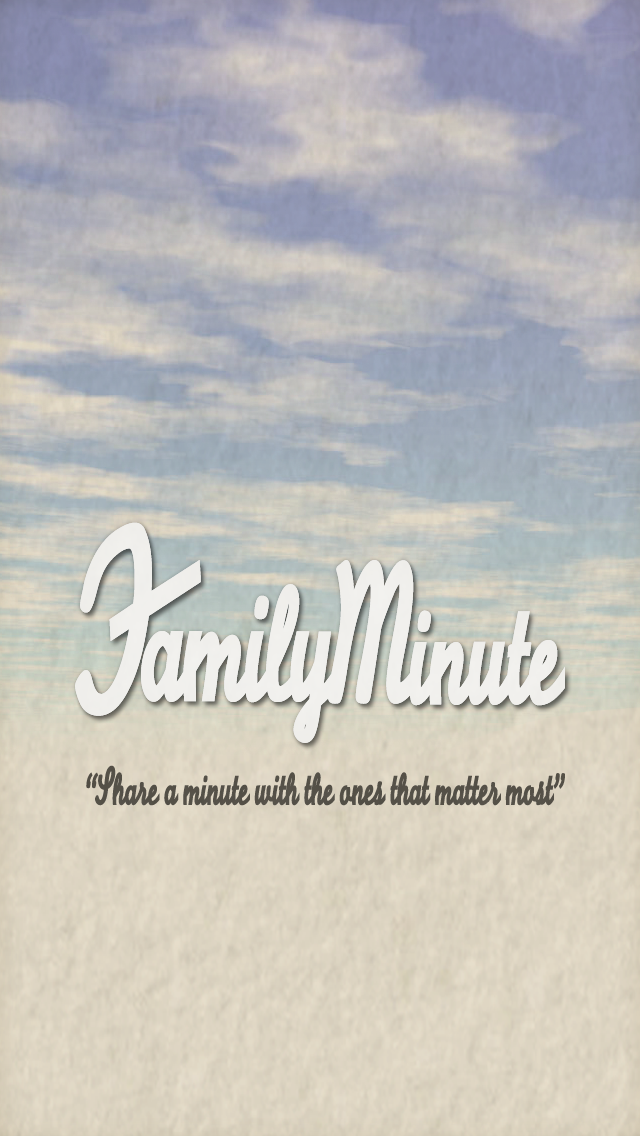
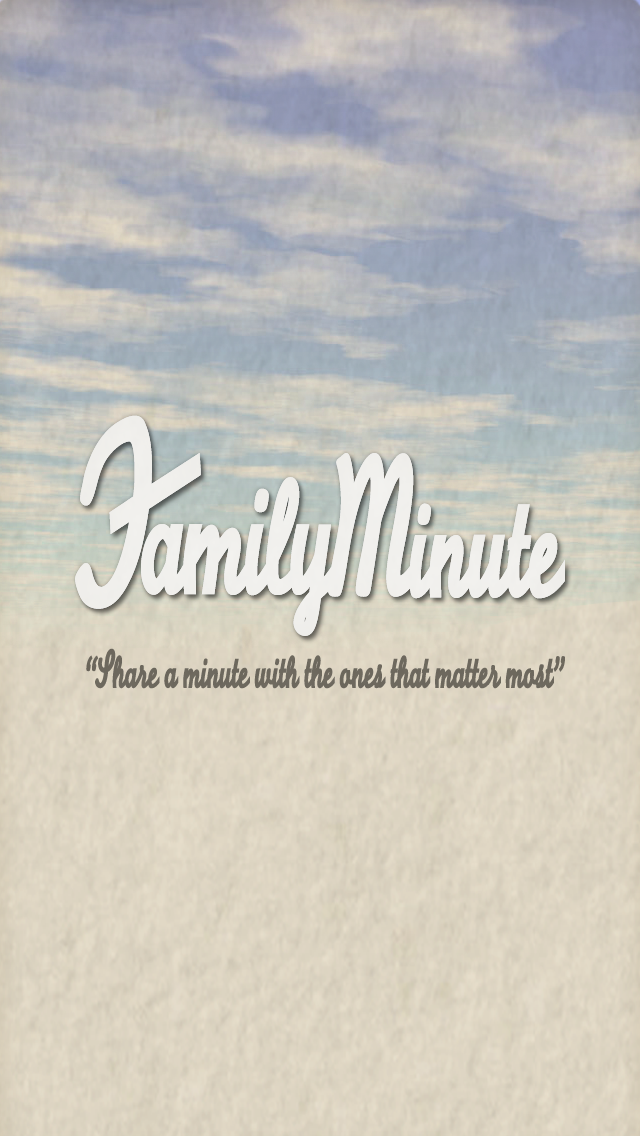
pictures added, lots of changes about the html and css and js in sign in page

diff --git a/sign-in.html b/sign-in.html
@@ -21,31 +21,37 @@
 <div class="container" data-role="page" id="signIn">
 	<div class="top"></div>
 	<div class="bottom">
-		<div>
-			<div class="photo">photo</div>
-			<div class="slogan">Share a minute with the ones that matter most!</div>
-		</div>
-		<div class="navigationButtons">
-			<div class="action navigation-button">
-				<a href="#" rel="external" id="signIn">sign in</a>
-			</div>
-			<div class="action navigation-button">
-				<a href="sign-up.html" rel="external" id="signUp">sign up</a>
-			</div>
-			<div id="initial">
-				<div class="action navigation-button">
-					facebook
+		<fieldset class="navigationButtons ui-grid-b">
+			<div class="ui-block-a" style="width: 23%"></div>
+			<div class="ui-block-b" style="width: 54%">
+				<div class="navigation-button">
+					<a href="#" rel="external" id="signIn">
+						<img src="img/login.png">
+					</a>
 				</div>
-				<div class="action navigation-button">
-					google
+				<div class="navigation-button">
+					<a href="sign-up.html" rel="external" id="signUp">
+						<img src="img/signup.png">
+					</a>
 				</div>
+				<div id="initial">
+					<div class="navigation-button">
+						<img src="img/facebook.png">
+					</div>
+					<div class="navigation-button">
+						<img src="img/google.png">
+					</div>
+				</div>
+				<form id="loginCredentials">
+					<input type="text" name="username" id="username" placeholder="Username">
+					<input type="password" name="password" id="password" placeholder="Password">
+					<input type="submit" id="submit" class="ui-btn ui-corner-all" data-role="button" value="Sign in" />
+				</form>
 			</div>
-			<form id="loginCredentials">
-				<input type="text" name="username" id="username" placeholder="Username">
-				<input type="password" name="password" id="password" placeholder="Password">
-				<input type="submit" id="submit" class="ui-btn ui-corner-all" data-role="button" value="Sign in" />
-			</form>
-		</div>
+			<div class="ui-block-c" style="width: 23%"></div>
+			
+			
+		</fieldset>
 	
 </div>
 </body>

diff --git a/js/sign-in.js b/js/sign-in.js
@@ -1,6 +1,14 @@
 $(document).on('pagebeforeshow', '#signIn', function(){
 	
-	$('#navigationButtons .sign-in').on('click',function(){
+	$('#signIn').css('background-image', 'url(img/background.png)');
+	var height = screen.height;
+	var width = screen.width;
+	$('#signIn').css('background-size', width+'px '+height+'px');
+	$('#signIn').css('no-repeat');
+	
+
+	$('#signIn').on('click',function(){
+
 		$(".top").animate({'height':'40%'},500);
 		$(".photo").animate({'top':'25%'},500);
 		$(".slogan").animate({'top':'50%'},500);
@@ -33,7 +41,8 @@ $(document).on('pagebeforeshow', '#signIn', function(){
 		else {
 			console.log('go to page home');
 			//go to home page
-			$.mobile.changePage("home.html");
+			// $.mobile.changePage("home.html");
+			window.location.href = "home.html";
 		}
 
 	});

diff --git a/css/sign-in.css b/css/sign-in.css
@@ -4,7 +4,7 @@
 	width: 100%;
 	position: absolute;
 	background-image: url('../img/background.png');
-	background-size: 
+	background-repeat: no-repeat;
 }
 
 .top{
@@ -19,34 +19,15 @@
 	width: 100%;
 }
 
-.photo{
-	top: 35%;
-	width: 154px;
-	height: 154px;
-	margin-left: 25%;
-	position: absolute;
-	background-color: #CC0066;
-}
-
-.slogan{
-	top: 60%;
-	width: 50%;
-	margin-left: 25%;
-	position: absolute;
-	font-size: 15px;
-	text-align: center;
-}
-
 .navigationButtons {
-	width: 70%;
+	width: 100%;
 	position: absolute;
 	bottom: 5%;
 }
 .navigation-button{
-	background-color: #FFFFFF;
-	height: 74px;
-	width: 74px;
-	margin: 3px;
+	height: 150px;
+	width: 150px;
+	margin: 10px;
 	float: left;
 }
 
